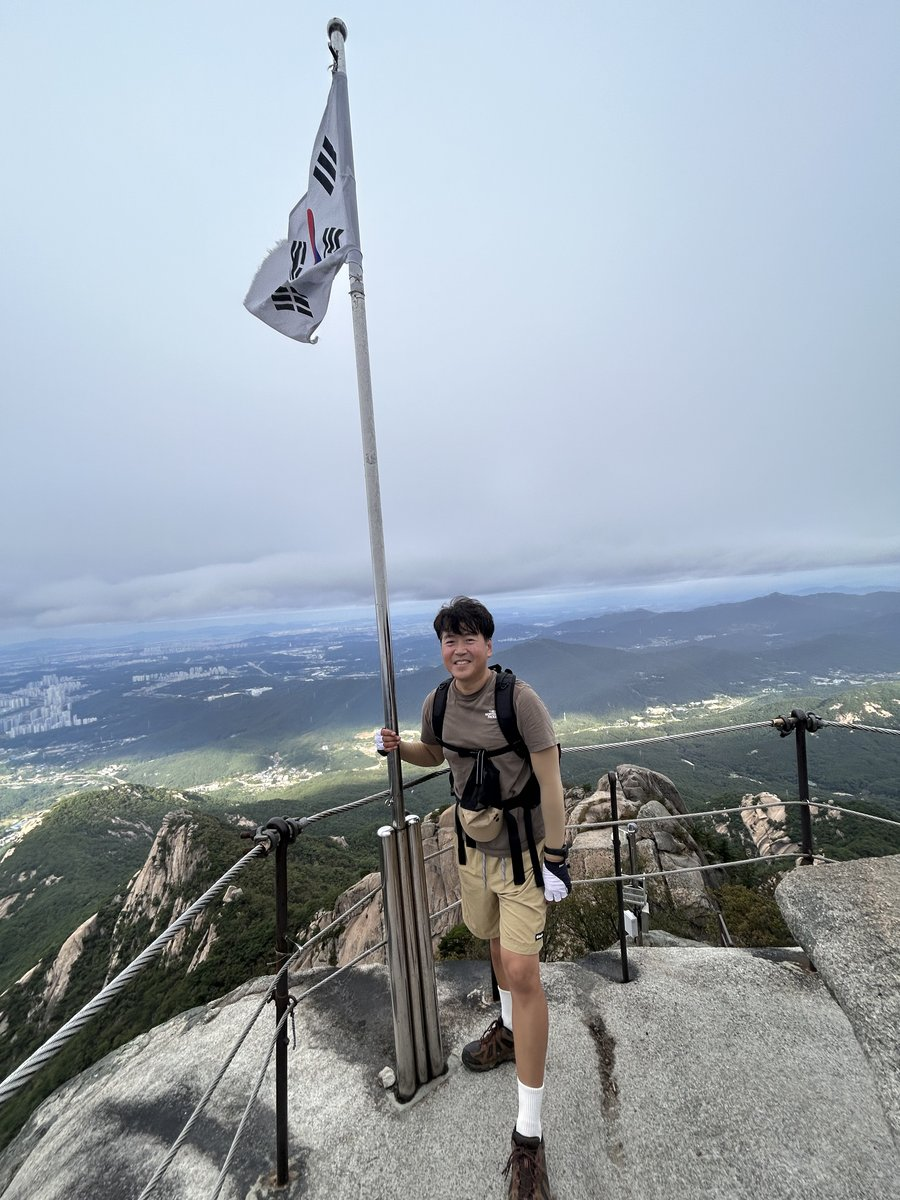
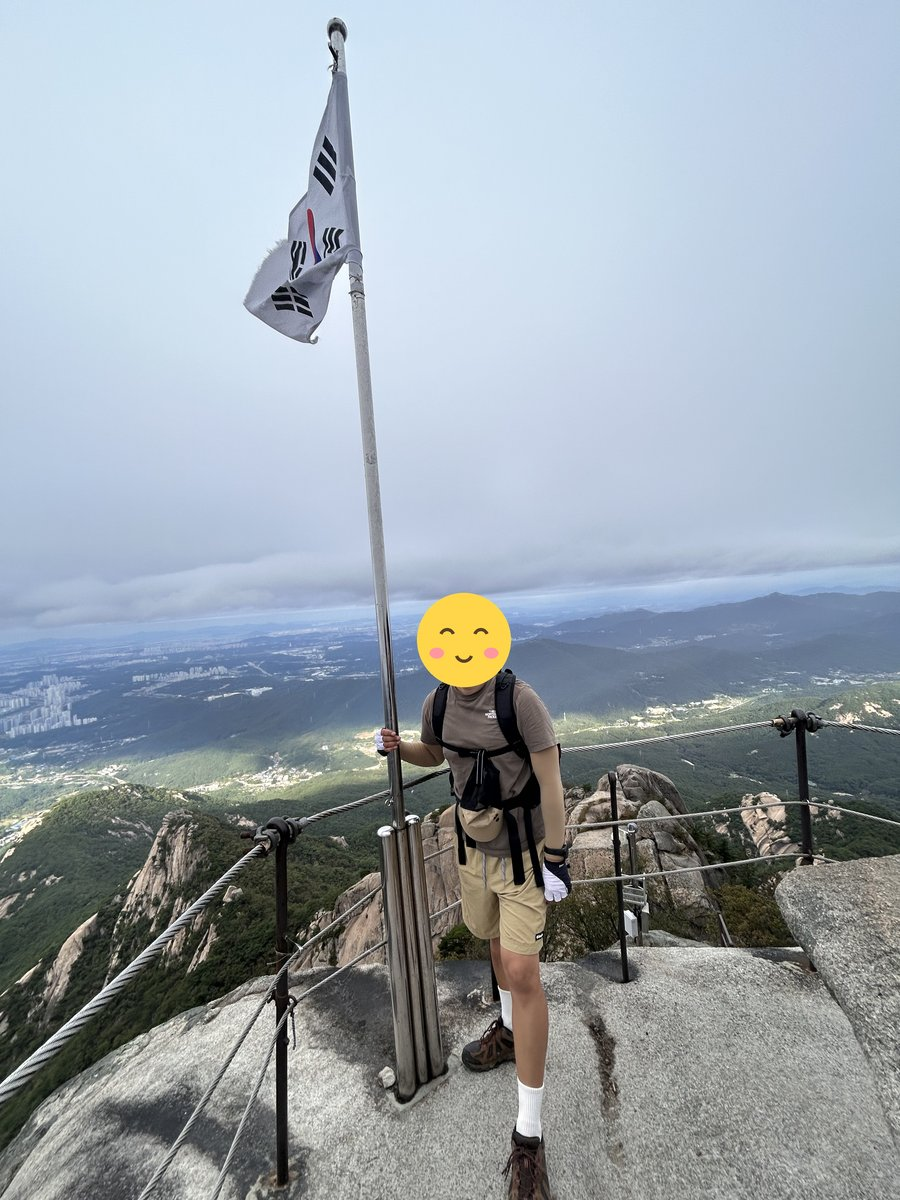
북한산 정상 인증 사진 얼굴 가림
Claude-Session: https://claude.ai/code/session_01Sgicf7n6ns4t1Tr8Nq5zqw

Changed region(s): [[0.4667, 0.4933, 0.5911, 0.5858]]

diff --git a/docs/mountain/북한산.html b/docs/mountain/북한산.html
@@ -64,7 +64,7 @@
 
   <div class="post-body">
     <div class="main"><div class="lede"><p>북한산은 100대 명산 도전의 출발점으로 가장 많이 선택되는 산입니다. 지하철 우이신설선 북한산우이역에서 걸어서 들머리까지 갈 수 있고, 왕복 4~5시간이면 정상을 다녀올 수 있습니다.</p><p>다만 &#x27;접근이 쉽다&#x27;와 &#x27;오르기 쉽다&#x27;는 다릅니다. 백운대 마지막 구간은 화강암 슬랩에 박힌 쇠줄과 난간을 잡고 올라야 하며, 비 온 뒤나 결빙기에는 초심자에게 확실히 부담이 됩니다.</p><p>코스가 워낙 다양해 같은 산을 여러 번 다르게 걸을 수 있다는 점도 장점입니다. 우이동에서 짧게 붙거나, 북한산성 계곡을 따라 길게 돌거나, 의상능선으로 암릉을 즐기는 식으로 난도를 조절할 수 있습니다.</p></div>
-    <section class="blk"><h2>등반기록</h2><article class="lg"><header class="lg-head"><a class="lg-fly" href="../assets/3d/bukhansan-2025-10-04.html?v=8cb07e38" target="_blank"><span class="lg-fly-ic" aria-hidden="true">▶</span>3D 코스 따라가 보기</a><b class="lg-title">북한산성 입구에서 백운대까지, 같은 길로 왕복</b><p class="lg-sub">북한산성 입구 → 계곡길 → 위문 → 백운대(정상) → 같은 길로 하산</p><div class="lg-chips"><span class="lg-chip">2025.10.04</span><span class="lg-chip">06:13 북한산성 입구 출발</span><span class="lg-chip">흐림</span></div></header><div class="lg-stats"><div class="lg-stat"><b>9.96km</b><span>이동 거리</span></div><div class="lg-stat"><b>5:20:32</b><span>총 소요시간</span></div><div class="lg-stat"><b>786m</b><span>고도 상승</span></div><div class="lg-stat"><b>16,870보</b><span>걸음 수</span></div><div class="lg-stat"><b>1,108kcal</b><span>소모 칼로리</span></div><div class="lg-stat"><b>32&#x27;11&quot;/km</b><span>평균 페이스</span></div></div><h3>북한산성 입구에서 출발</h3><p>아침 6시 13분, 북한산성 입구에서 출발했어요. 입구 안내판에서 백운대 코스를 확인하고 계곡길로 들어섰어요.</p><p>등산 코스는 북한산성 입구 → 계곡길 → 위문 → 백운대(정상) → 같은 길로 하산.</p><figure class="lg-fig"><img src="../assets/photos/log/북한산-2025-10-04-2921.10816144.jpg" alt="북한산 둘레길 종합안내도" loading="lazy" decoding="async"><figcaption>북한산 둘레길 종합안내도</figcaption></figure><div class="lg-grid"><figure class="lg-cell"><img src="../assets/photos/log/북한산-2025-10-04-2922.2f8afa78.jpg" alt="탐방로 안내판 — 백운대 코스는 4.1km, 난이도 &#x27;보통&#x27;으로 안내되어 있어요" loading="lazy" decoding="async"><figcaption>탐방로 안내판 — 백운대 코스는 4.1km, 난이도 &#x27;보통&#x27;으로 안내되어 있어요</figcaption></figure></div><h3>백운대 정상, 837m</h3><p>8시 52분쯤 백운대에 닿았어요. 출발한 지 2시간 40분 만이에요. 태극기가 서 있는 정상 바위에서 인증샷을 남겼어요.</p><figure class="lg-fig"><img src="../assets/photos/log/북한산-2025-10-04-2937.17033037.jpg" alt="백운대 정상 태극기 앞에서" loading="lazy" decoding="async"><figcaption>백운대 정상 태극기 앞에서</figcaption></figure><h3>정상에서 내려다본 풍경</h3><p>하늘은 구름이 낮게 깔려 흐렸지만, 구름 아래로는 시야가 트여서 서울 시내가 한눈에 내려다보였어요. 반대편으로는 바위 봉우리와 능선이 겹겹이 이어져요.</p><p>정상에서 40분 가까이 머물며 사방을 둘러봤어요.</p><figure class="lg-fig"><img src="../assets/photos/log/북한산-2025-10-04-2941.a6e7688a.jpg" alt="백운대에서 내려다본 시내" loading="lazy" decoding="async"><figcaption>백운대에서 내려다본 시내</figcaption></figure><div class="lg-grid"><figure class="lg-cell"><img src="../assets/photos/log/북한산-2025-10-04-2942.6851add8.jpg" alt="아래 너럭바위에 선 사람들이 작게 보여요" loading="lazy" decoding="async"><figcaption>아래 너럭바위에 선 사람들이 작게 보여요</figcaption></figure><figure class="lg-cell"><img src="../assets/photos/log/북한산-2025-10-04-2943.1bfe8721.jpg" alt="바위 봉우리 너머로 보이는 도심" loading="lazy" decoding="async"><figcaption>바위 봉우리 너머로 보이는 도심</figcaption></figure><figure class="lg-cell"><img src="../assets/photos/log/북한산-2025-10-04-2944.1e669ee3.jpg" alt="구름 사이로 햇빛이 내려앉은 골짜기" loading="lazy" decoding="async"><figcaption>구름 사이로 햇빛이 내려앉은 골짜기</figcaption></figure><figure class="lg-cell"><img src="../assets/photos/log/북한산-2025-10-04-2945.46e8bc0f.jpg" alt="겹겹이 이어지는 능선" loading="lazy" decoding="async"><figcaption>겹겹이 이어지는 능선</figcaption></figure><figure class="lg-cell"><img src="../assets/photos/log/북한산-2025-10-04-2946.d067f1ae.jpg" alt="북한산 산행 사진" loading="lazy" decoding="async"></figure><figure class="lg-cell"><img src="../assets/photos/log/북한산-2025-10-04-2947.44cc4da9.jpg" alt="정상 바위 끝에서" loading="lazy" decoding="async"><figcaption>정상 바위 끝에서</figcaption></figure><figure class="lg-cell"><img src="../assets/photos/log/북한산-2025-10-04-2948.f611c6e3.jpg" alt="북한산 산행 사진" loading="lazy" decoding="async"></figure></div><h3>올라온 길로 하산</h3><p>올라온 길로 그대로 내려와 11시 34분에 마쳤어요. 총 9.96km, 5시간 20분이 걸렸어요.</p><p>거리와 시간은 GPS 기록으로 계산한 값이에요.</p><figure class="lg-fig"><img src="../assets/photos/log/북한산-2025-10-04-route.5c041c6e.jpg" alt="GPS 경로 — 북한산성 입구에서 백운대까지 왕복" loading="lazy" decoding="async"><figcaption>GPS 경로 — 북한산성 입구에서 백운대까지 왕복</figcaption></figure></article></section>
+    <section class="blk"><h2>등반기록</h2><article class="lg"><header class="lg-head"><a class="lg-fly" href="../assets/3d/bukhansan-2025-10-04.html?v=8cb07e38" target="_blank"><span class="lg-fly-ic" aria-hidden="true">▶</span>3D 코스 따라가 보기</a><b class="lg-title">북한산성 입구에서 백운대까지, 같은 길로 왕복</b><p class="lg-sub">북한산성 입구 → 계곡길 → 위문 → 백운대(정상) → 같은 길로 하산</p><div class="lg-chips"><span class="lg-chip">2025.10.04</span><span class="lg-chip">06:13 북한산성 입구 출발</span><span class="lg-chip">흐림</span></div></header><div class="lg-stats"><div class="lg-stat"><b>9.96km</b><span>이동 거리</span></div><div class="lg-stat"><b>5:20:32</b><span>총 소요시간</span></div><div class="lg-stat"><b>786m</b><span>고도 상승</span></div><div class="lg-stat"><b>16,870보</b><span>걸음 수</span></div><div class="lg-stat"><b>1,108kcal</b><span>소모 칼로리</span></div><div class="lg-stat"><b>32&#x27;11&quot;/km</b><span>평균 페이스</span></div></div><h3>북한산성 입구에서 출발</h3><p>아침 6시 13분, 북한산성 입구에서 출발했어요. 입구 안내판에서 백운대 코스를 확인하고 계곡길로 들어섰어요.</p><p>등산 코스는 북한산성 입구 → 계곡길 → 위문 → 백운대(정상) → 같은 길로 하산.</p><figure class="lg-fig"><img src="../assets/photos/log/북한산-2025-10-04-2921.10816144.jpg" alt="북한산 둘레길 종합안내도" loading="lazy" decoding="async"><figcaption>북한산 둘레길 종합안내도</figcaption></figure><div class="lg-grid"><figure class="lg-cell"><img src="../assets/photos/log/북한산-2025-10-04-2922.2f8afa78.jpg" alt="탐방로 안내판 — 백운대 코스는 4.1km, 난이도 &#x27;보통&#x27;으로 안내되어 있어요" loading="lazy" decoding="async"><figcaption>탐방로 안내판 — 백운대 코스는 4.1km, 난이도 &#x27;보통&#x27;으로 안내되어 있어요</figcaption></figure></div><h3>백운대 정상, 837m</h3><p>8시 52분쯤 백운대에 닿았어요. 출발한 지 2시간 40분 만이에요. 태극기가 서 있는 정상 바위에서 인증샷을 남겼어요.</p><figure class="lg-fig"><img src="../assets/photos/log/북한산-2025-10-04-2937.aebf5bfe.jpg" alt="백운대 정상 태극기 앞에서" loading="lazy" decoding="async"><figcaption>백운대 정상 태극기 앞에서</figcaption></figure><h3>정상에서 내려다본 풍경</h3><p>하늘은 구름이 낮게 깔려 흐렸지만, 구름 아래로는 시야가 트여서 서울 시내가 한눈에 내려다보였어요. 반대편으로는 바위 봉우리와 능선이 겹겹이 이어져요.</p><p>정상에서 40분 가까이 머물며 사방을 둘러봤어요.</p><figure class="lg-fig"><img src="../assets/photos/log/북한산-2025-10-04-2941.a6e7688a.jpg" alt="백운대에서 내려다본 시내" loading="lazy" decoding="async"><figcaption>백운대에서 내려다본 시내</figcaption></figure><div class="lg-grid"><figure class="lg-cell"><img src="../assets/photos/log/북한산-2025-10-04-2942.6851add8.jpg" alt="아래 너럭바위에 선 사람들이 작게 보여요" loading="lazy" decoding="async"><figcaption>아래 너럭바위에 선 사람들이 작게 보여요</figcaption></figure><figure class="lg-cell"><img src="../assets/photos/log/북한산-2025-10-04-2943.1bfe8721.jpg" alt="바위 봉우리 너머로 보이는 도심" loading="lazy" decoding="async"><figcaption>바위 봉우리 너머로 보이는 도심</figcaption></figure><figure class="lg-cell"><img src="../assets/photos/log/북한산-2025-10-04-2944.1e669ee3.jpg" alt="구름 사이로 햇빛이 내려앉은 골짜기" loading="lazy" decoding="async"><figcaption>구름 사이로 햇빛이 내려앉은 골짜기</figcaption></figure><figure class="lg-cell"><img src="../assets/photos/log/북한산-2025-10-04-2945.46e8bc0f.jpg" alt="겹겹이 이어지는 능선" loading="lazy" decoding="async"><figcaption>겹겹이 이어지는 능선</figcaption></figure><figure class="lg-cell"><img src="../assets/photos/log/북한산-2025-10-04-2946.d067f1ae.jpg" alt="북한산 산행 사진" loading="lazy" decoding="async"></figure><figure class="lg-cell"><img src="../assets/photos/log/북한산-2025-10-04-2947.44cc4da9.jpg" alt="정상 바위 끝에서" loading="lazy" decoding="async"><figcaption>정상 바위 끝에서</figcaption></figure><figure class="lg-cell"><img src="../assets/photos/log/북한산-2025-10-04-2948.f611c6e3.jpg" alt="북한산 산행 사진" loading="lazy" decoding="async"></figure></div><h3>올라온 길로 하산</h3><p>올라온 길로 그대로 내려와 11시 34분에 마쳤어요. 총 9.96km, 5시간 20분이 걸렸어요.</p><p>거리와 시간은 GPS 기록으로 계산한 값이에요.</p><figure class="lg-fig"><img src="../assets/photos/log/북한산-2025-10-04-route.5c041c6e.jpg" alt="GPS 경로 — 북한산성 입구에서 백운대까지 왕복" loading="lazy" decoding="async"><figcaption>GPS 경로 — 북한산성 입구에서 백운대까지 왕복</figcaption></figure></article></section>
     <section class="blk"><h2>이 산의 포인트</h2><ul class="hl"><li>백운대(837m) — 서울 도심을 발밑에 두는 정상 조망</li><li>마지막 구간은 쇠줄·난간 구간, 장갑 권장</li><li>지하철 접근 가능 — 100대 명산 중 최고 수준의 접근성</li><li>주말 정상부는 정상석 촬영 대기 줄이 생길 만큼 붐빔</li></ul></section>
     <section class="blk"><h2>등산 코스</h2><div class="table-scroll"><table class="courses">
       <thead><tr><th>코스</th><th>거리</th><th>소요</th><th>난이도</th></tr></thead>
